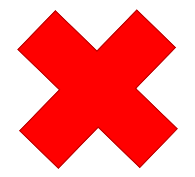
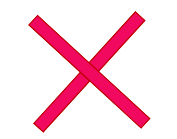
[FIX] added and fixed functionality and symbol images

diff --git a/index.js b/index.js
@@ -2,40 +2,54 @@ var tiles = document.querySelectorAll('.container > :nth-child(2) > div');
 var player1 = {
     id: document.querySelector(".container > :nth-child(1)"),
     symbol: document.querySelector(".container > :nth-child(1) > :nth-child(1)"),
-    name: document.querySelector(".container > :nth-child(1) > :nth-child(2)"),
 }
 var player2 = {
     id: document.querySelector(".container > :nth-child(3)"),
     symbol: document.querySelector(".container > :nth-child(3) > :nth-child(1)"),
-    name: document.querySelector(".container > :nth-child(3) > :nth-child(2)"),
 }
 var disable = false;
 var symbol = "";
 var active_tiles = {};
+var fromKeyboardSpacebar = false;
 
-// Function used to get random symbol each initial loading
+function activePlayer() {
+    var randomNumber = Math.floor(Math.random() * 2);
+    if (randomNumber == 0) {
+        return "player1";
+    } else {
+        return "player2";
+    }
+}
+
 function randomSymbol() {
-    randomNumber = Math.floor(Math.random() * 2);
+    var non_active_symbol = "";
+    var randomNumber = Math.floor(Math.random() * 2);
     if (randomNumber == 0) {
         symbol = "o-symbol";
+        non_active_symbol = "x-symbol";
     } else {
         symbol = "x-symbol";
+        non_active_symbol = "o-symbol";
     }
+    return [symbol, non_active_symbol];
 }
 
-function addSymbolToPlayer() {
-    if (symbol === "o-symbol") {
-        player1.symbol.classList.add("player-symbol-o");
-        player2.symbol.classList.add("player-symbol-x");
+function randomization() {
+    var active_player = activePlayer();
+    var [active_symbol, non_active_symbol] = randomSymbol();
+
+    if (active_player === "player1") {
+        player1.id.classList.add("green");
+        player1.symbol.classList.add(active_symbol);
+        player2.symbol.classList.add(non_active_symbol);
     } else {
-        player1.symbol.classList.add("player-symbol-x");
-        player2.symbol.classList.add("player-symbol-o");
+        player2.id.classList.add("green");
+        player2.symbol.classList.add(active_symbol);
+        player1.symbol.classList.add(non_active_symbol);
     }
 }
 
-randomSymbol();
-addSymbolToPlayer();
-player1.id.classList.add("green");
+randomization();
 
 function changeSymbol() {
     if(symbol === "o-symbol") {
@@ -48,10 +62,18 @@ function changeSymbol() {
 }
 
 function blink3times(elements) {
-    debugger;
     id = setInterval(function() {
         for (var i=0; i<elements.length; i++) {
-            tiles[elements[i] - 1].classList.toggle("flickerbgimg");
+            tiles[elements[i] - 1].classList.toggle("flicker-bg-img");
+        }
+        if (player1.symbol.className === tiles[elements[0] - 1].classList[0]) {
+            player1.id.classList.toggle("flicker");
+            player1.id.classList.add("green");
+            player2.id.classList.remove("green");
+        } else {
+            player2.id.classList.toggle("flicker");
+            player2.id.classList.add("green");
+            player1.id.classList.remove("green");
         }
     }, 100);
     setTimeout(function() {
@@ -60,6 +82,7 @@ function blink3times(elements) {
 }
 
 function checkForWinner() {
+
     function patternMatch(combination) {
         if(active_tiles[combination[0]] === symbol &&
             active_tiles[combination[1]] === symbol &&
@@ -73,7 +96,7 @@ function checkForWinner() {
         return;
     } else {
         var flag = false;
-        const patterns = [[1,2,3], [1,4,7], [1,5,9], [4,5,6], [7,8,9], [3,5,7], [3,6,9]];
+        const patterns = [[1,2,3], [4,5,6], [7,8,9], [1,4,7], [2,5,8], [3,6,9], [1,5,9], [3,5,7]];
         var matched_pattern = [];
         for (var i=0; i<patterns.length; i++) {
             if (patternMatch(patterns[i])) {
@@ -83,20 +106,64 @@ function checkForWinner() {
                 break;
             }
         }
-
-        if (flag === true) {
+        if (flag === true || Object.keys(active_tiles).length == 9) {
             blink3times(matched_pattern);
+            setTimeout(function() {
+                if (!fromKeyboardSpacebar) {
+                    reset();
+                }
+            }, 2000);
         }
+        debugger;
+    }
+}
+
+function tileEventHandler() {
+    if (disable != true) {
+        this.classList.add(symbol);
+        active_tiles[this.getAttribute('name')] = this.getAttribute('class');
+        checkForWinner();
+        changeSymbol();
     }
 }
 
 for(var i=0; i<tiles.length; i++) {
-    tiles[i].addEventListener('click', function() {
-        if (disable != true) {
-            this.classList.add(symbol);
-            active_tiles[this.getAttribute('name')] = this.getAttribute('class');
-            checkForWinner();
-            changeSymbol();
-        }
-    }, {'once': true});
+    tiles[i].addEventListener('click', tileEventHandler, {'once': true});
 }
+
+function reset() {
+
+    function removeClassesFromPlayer() {
+        player1.id.classList.remove("green");
+        player2.id.classList.remove("green");
+        player1.symbol.classList.remove("o-symbol");
+        player1.symbol.classList.remove("x-symbol");
+        player2.symbol.classList.remove("o-symbol");
+        player2.symbol.classList.remove("x-symbol");
+    }
+
+    function removeClasses(tile) {
+        tile.classList.remove("o-symbol");
+        tile.classList.remove("x-symbol");
+    }
+
+    disable = false;
+    active_tiles = {};
+    fromKeyboardSpacebar = false;
+    for(var i=0; i<tiles.length; i++) {
+        removeClasses(tiles[i]);
+        tiles[i].removeEventListener("click", tileEventHandler);
+        tiles[i].addEventListener("click", tileEventHandler, {'once': true});
+    }
+    removeClassesFromPlayer();
+    randomization();
+}
+
+document.addEventListener("keydown", function(event) {
+    if (event.key === " ") {
+        fromKeyboardSpacebar = true;
+        if (disable === true) {
+            reset();
+        }
+    }
+});

diff --git a/styles.css b/styles.css
@@ -42,10 +42,10 @@ h1 {
 }
 
 .x-symbol {
-    background-image: url(./assets/images/unnamed.png);
+    background-image: url(./assets/images/x-symbol.png);
     background-repeat: no-repeat;
     background-position: center;
-    background-size: 80% 90%;
+    background-size: 95% 95%;
     border: none;
 }
 
@@ -64,22 +64,7 @@ h1 {
 .player > :nth-child(1) {
     height: 50px;
     width: 50px;
-}
-
-.player-symbol-o {
-    background-image: url(./assets/images/o-symbol.png);
-    background-color: #0c0e00;
-    background-repeat: no-repeat;
-    background-position: center;
-    background-size: 80% 80%;
-}
-
-.player-symbol-x {
-    background-image: url(./assets/images/unnamed.png);
-    background-color: #0c0e00;
-    background-repeat: no-repeat;
-    background-position: center;
-    background-size: 80% 80%;
+    background-color: black;
 }
 
 .green {
@@ -87,7 +72,7 @@ h1 {
     color: white;
 }
 
-.flickerbgimg {
+.flicker-bg-img {
     background-image: none;
 }
 

diff --git a/index.html b/index.html
@@ -17,7 +17,7 @@
     <div class="container">
       <div class="player">
         <div></div>
-        <div>Joey Tribbiani</div>
+        <div contenteditable="true" spellcheck="false">Player 1</div>
       </div>
 
       <div>
@@ -34,7 +34,7 @@
 
       <div class="player">
         <div></div>
-        <div>Ross Geller</div>
+        <div contenteditable="true" spellcheck="false">Player 2</div>
       </div>
     </div>
 

diff --git a/README.md b/README.md
@@ -1,1 +1,8 @@
-# tic-tac-toe
+# Tic-Tac-Toe
+
+Exclusive tic-tac-toe app made using pure javascript along with html and css.
+
+You can play the game by visiting the GitHub page link provided, see 👉
+[tic-tac-toe](https://rare-00x00.github.io/tic-tac-toe/)
+
+_Note:_ Please note that this repository does not include the web socket logic
